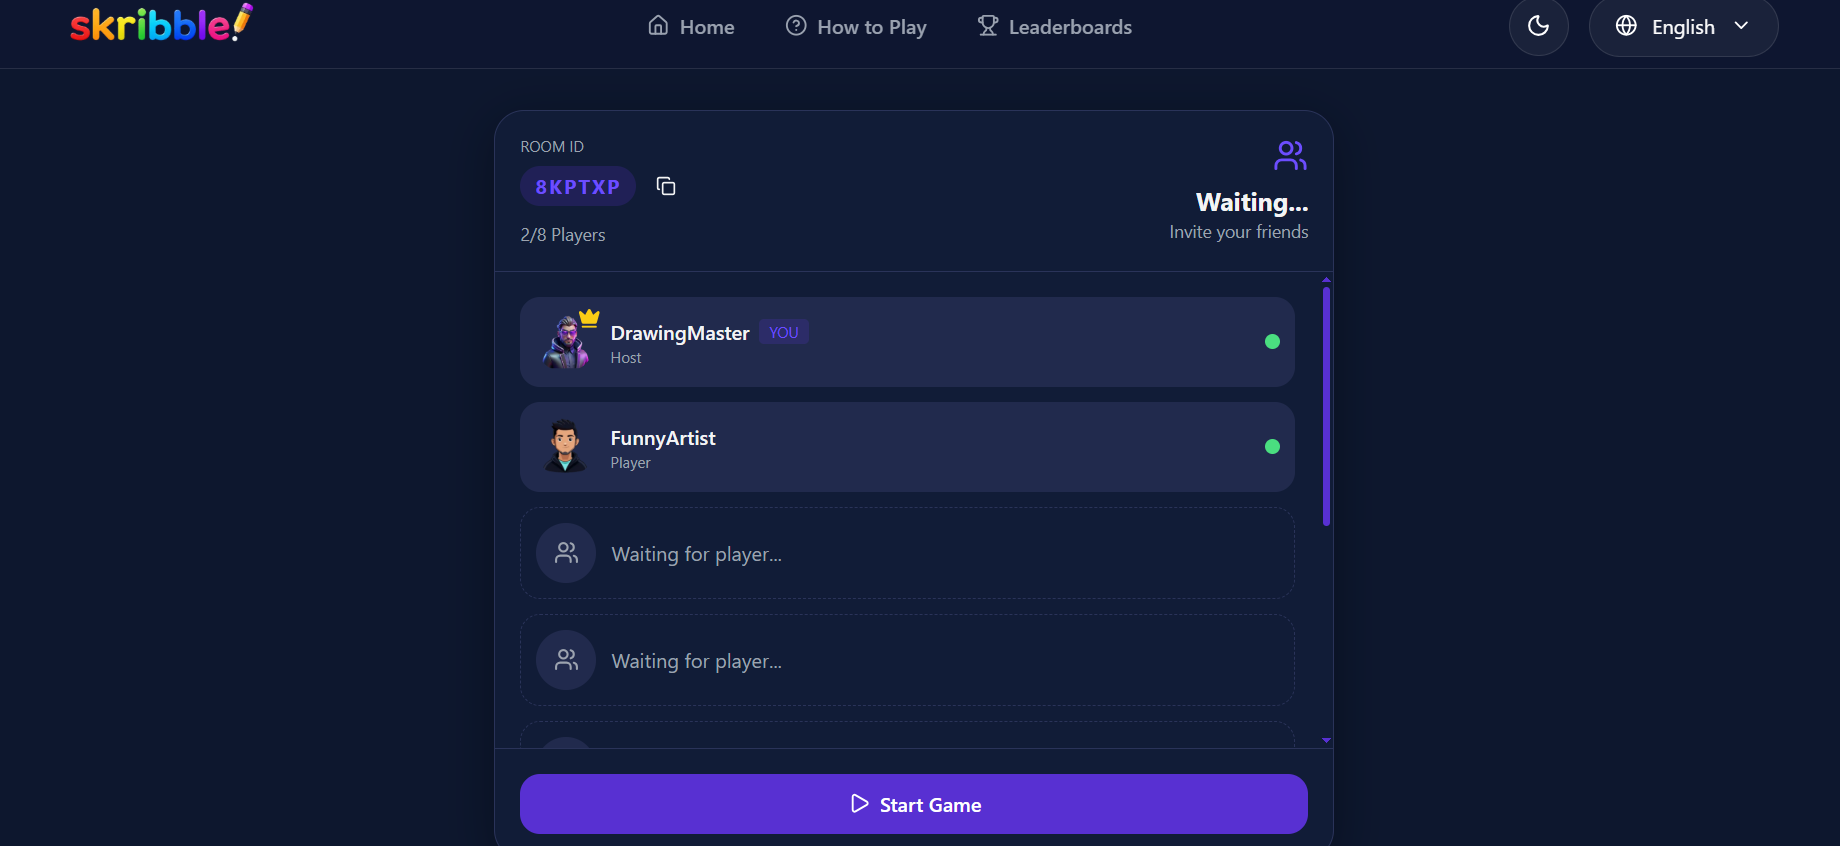
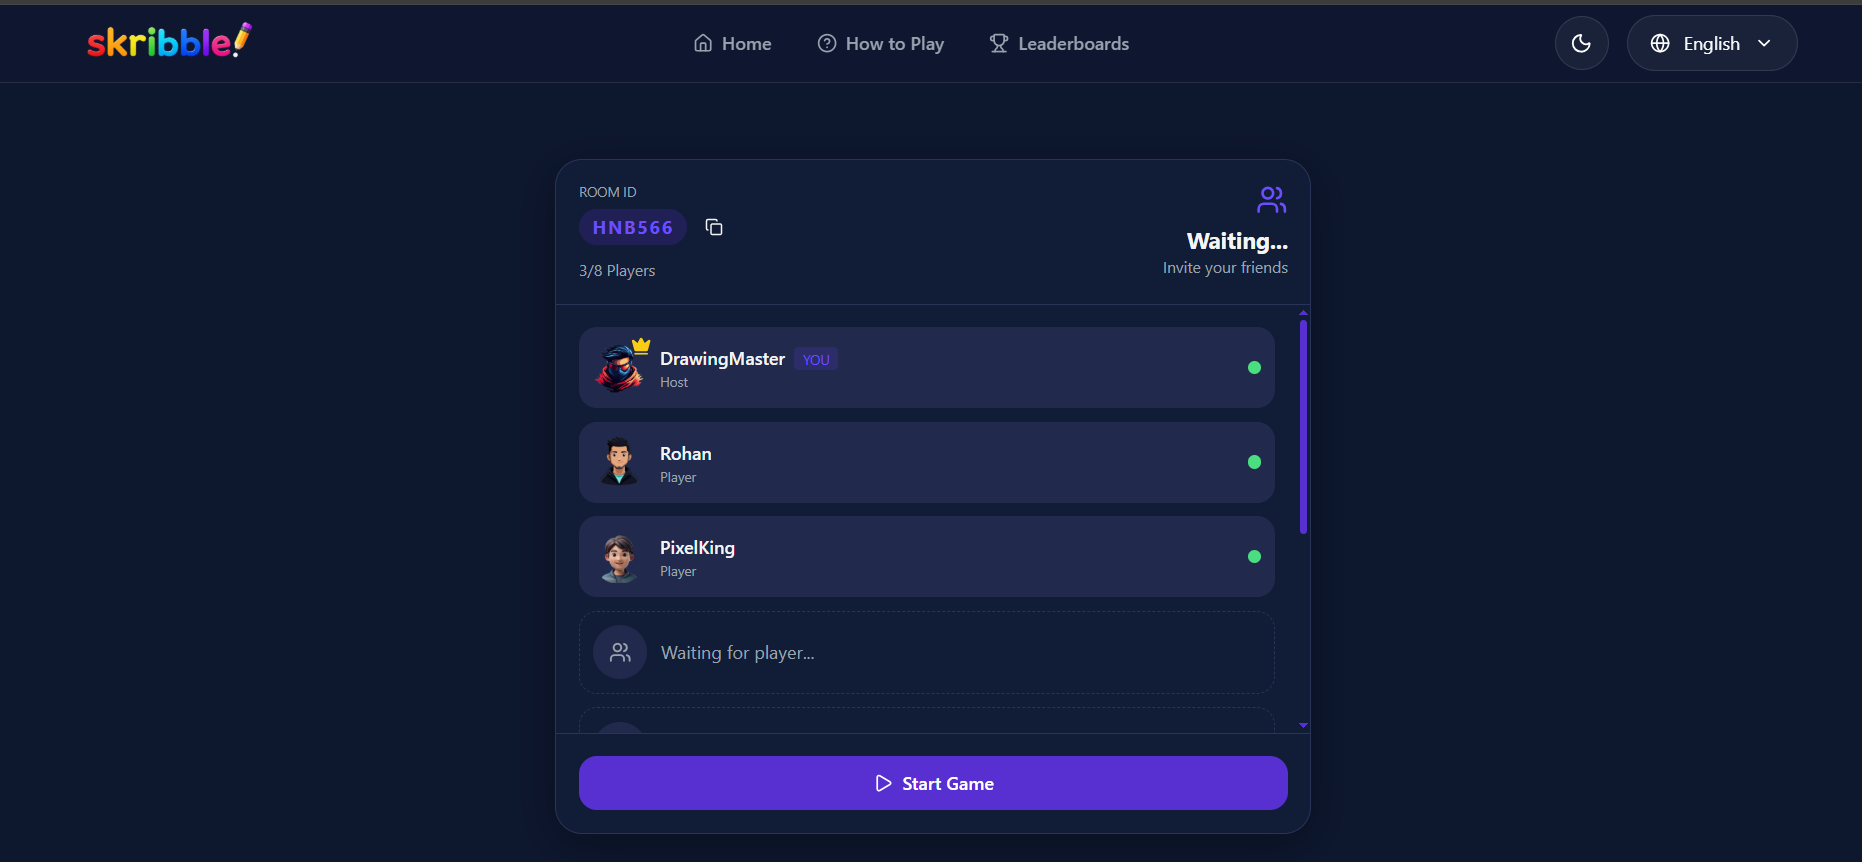
update readme

diff --git a/README.md b/README.md
@@ -1,11 +1,11 @@
 <p align="center">
-  <img src="assests/logo.png" alt="Skribbl Clone Logo" width="180">
+  <img src="assests/logo.png" width="180" alt="Skribbl Clone Logo">
 </p>
 
 <h1 align="center">🎨 Skribbl Clone</h1>
 
 <p align="center">
-  A modern real-time multiplayer drawing and guessing game built with <strong>Next.js</strong>, <strong>Node.js</strong>, <strong>Socket.IO</strong>, and <strong>MongoDB</strong>.
+A real-time multiplayer drawing and guessing game inspired by Skribbl.io, built with Next.js, Node.js, Socket.IO, MongoDB and TypeScript.
 </p>
 
 <p align="center">
@@ -17,37 +17,39 @@
 ![Express](https://img.shields.io/badge/Express-000000?logo=express)
 ![Socket.IO](https://img.shields.io/badge/Socket.IO-black?logo=socket.io)
 ![MongoDB](https://img.shields.io/badge/MongoDB-47A248?logo=mongodb)
-![TailwindCSS](https://img.shields.io/badge/Tailwind-v4-38B2AC?logo=tailwind-css)
+![Tailwind CSS](https://img.shields.io/badge/Tailwind-v4-38B2AC?logo=tailwind-css)
 
 </p>
 
 ---
-
-# 📸 Preview
 
 <p align="center">
-  <img src="assests/home.png" alt="Skribbl Clone Home Screen" width="100%">
+  <a href="https://skribble-clone-eight.vercel.app/" target="_blank">
+    <img src="https://img.shields.io/badge/🚀%20Live%20Demo-Play%20Now-success?style=for-the-badge" alt="Live Demo">
+  </a>
 </p>
 
+<p align="center">
+  <strong>🌐 https://skribble-clone-eight.vercel.app/</strong>
+</p>
+# ✨ Features
+
+- 🎮 Real-time Multiplayer Rooms
+- 🎨 Smooth Canvas Drawing
+- ⚡ Instant Socket.IO Synchronization
+- 💬 Live Chat & Guessing
+- 🎯 Dynamic Score System
+- 🎲 Random Word Selection
+- ⏱️ Round Timer & Countdown
+- 👥 Public & Private Rooms
+- 🎭 Avatar Selection
+- 🌍 Multi-language Support
+- 📱 Responsive UI
+- 🏆 Final Leaderboard
+
 ---
 
-## ✨ Features
-
-- 🎮 Real-time multiplayer gameplay
-- 🖌️ Smooth collaborative drawing
-- 💬 Live chat with instant guessing
-- 🎯 Automatic scoring system
-- ⏳ Countdown & drawing timers
-- 🎲 Random word generation
-- 👥 Private room support
-- 🌍 Multi-language support
-- 🎭 Avatar selection
-- 📱 Fully responsive UI
-- ⚡ Powered by Socket.IO
-
----
-
-## 🏗️ Tech Stack
+# 🛠 Tech Stack
 
 | Frontend      | Backend   | Database |
 | ------------- | --------- | -------- |
@@ -59,37 +61,67 @@
 
 ---
 
-## 🖼️ Game Screenshots
+# 📸 Application Preview
 
-### 🏠 Home Page
-
-<p align="center">
-  <img src="assests/home.png" width="100%">
-</p>
-
-### 🎨 Drawing Room
+## 🏠 Home
 
 <p align="center">
-  <img src="assests/game.png" width="100%">
-</p>
-
-### 🏆 Leaderboard
-
-<p align="center">
-  <img src="assests/leaderboard.png" width="100%">
+<img src="assests/home.png" width="100%">
 </p>
 
 ---
 
-## 🚀 Getting Started
+## ➕ Create Room
+
+<p align="center">
+<img src="assests/create-room.png" width="100%">
+</p>
+
+---
+
+## 🚪 Join Room
+
+<p align="center">
+<img src="assests/join-room.png" width="100%">
+</p>
+
+---
+
+## 👥 Waiting Room
+
+<p align="center">
+<img src="assests/waiting.png" width="100%">
+</p>
+
+---
+
+## 🎨 Gameplay
+
+<p align="center">
+<img src="assests/game.png" width="100%">
+</p>
+
+---
+
+## 🏆 Game Over & Leaderboard
+
+<p align="center">
+<img src="assests/leaderboard.png" width="100%">
+</p>
+
+---
+
+# 🚀 Getting Started
+
+## Clone Repository
 
 ```bash
-git https://github.com/mohdsohrab2003/Skribble-Clone.git
+git clone https://github.com/mohdsohrab2003/Skribble-Clone.git
 
-cd skribbl-clone
+cd Skribble-Clone
 ```
 
-### Backend
+## Backend
 
 ```bash
 cd server
@@ -99,7 +131,13 @@ npm install
 npm run dev
 ```
 
-### Frontend
+Runs on
+
+```
+http://localhost:4000
+```
+
+## Frontend
 
 ```bash
 cd client
@@ -109,7 +147,7 @@ npm install
 npm run dev
 ```
 
-Open
+Runs on
 
 ```
 http://localhost:3000
@@ -117,55 +155,70 @@ http://localhost:3000
 
 ---
 
-## ⭐ Game Flow
+# 🎮 Game Flow
 
 ```text
+Home
+   │
+   ▼
 Create Room
-      │
-      ▼
+   │
+   ▼
 Players Join
-      │
-      ▼
-Host Starts Game
-      │
-      ▼
-Countdown
-      │
-      ▼
+   │
+   ▼
+Waiting Room
+   │
+   ▼
+Game Starts
+   │
+   ▼
 Choose Word
-      │
-      ▼
-Drawing
-      │
-      ▼
-Guessing
-      │
-      ▼
-Round End
-      │
-      ▼
-Next Drawer
-      │
-      ▼
+   │
+   ▼
+Draw
+   │
+   ▼
+Guess
+   │
+   ▼
+Round Complete
+   │
+   ▼
+Next Player
+   │
+   ▼
+Leaderboard
+   │
+   ▼
 Game Finished
 ```
 
 ---
 
-## 📂 Project Structure
+# 📂 Project Structure
 
 ```
-client/
-server/
-README.md
+Skribble-Clone
+│
+├── client
+│   ├── src
+│   ├── public
+│   └── package.json
+│
+├── server
+│   ├── src
+│   └── package.json
+│
+└── README.md
 ```
 
 ---
 
-## 👨💻 Author
+# 👨💻 Author
 
-**Mohammed Sohrab**
+## Mohammed Sohrab
 
 Full Stack Developer
 
-⭐ If you like this project, don't forget to star the repository!
+⭐ If you found this project helpful, please give it a star.